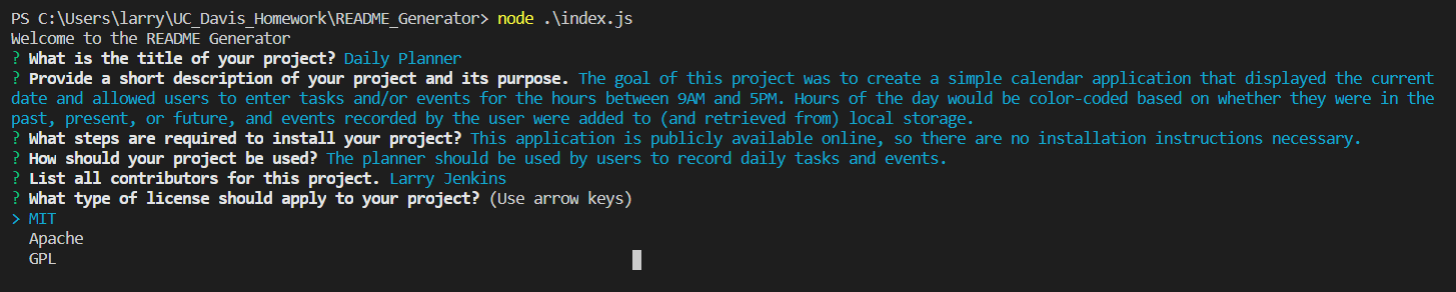
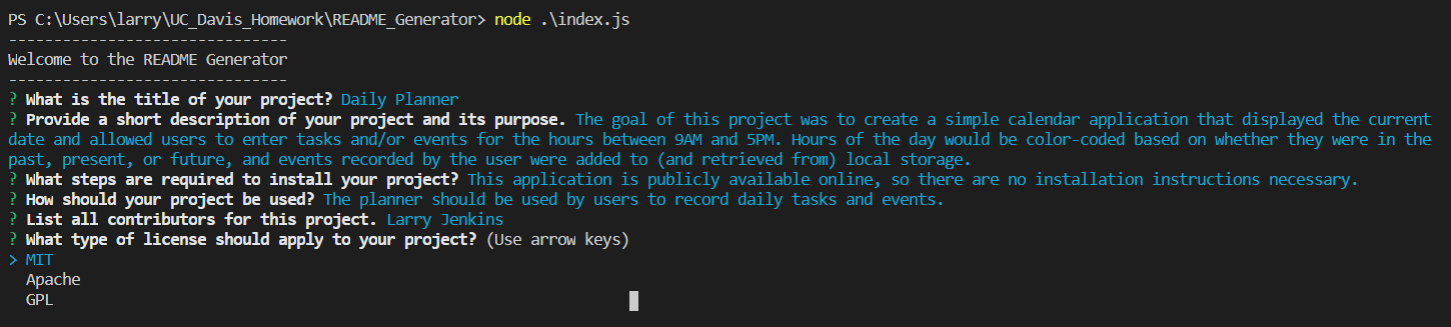
completed Solution section of README

Changed region(s): [[0.0, 0.0308, 0.9924, 0.9247], [0.4342, 0.9247, 0.4652, 0.9555], [0.4342, 0.863, 0.4652, 0.8938]]

diff --git a/index.js b/index.js
@@ -1,7 +1,9 @@
 const fs = require("fs");
 const inquirer = require("inquirer");
 
+console.log(`-------------------------------`);
 console.log(`Welcome to the README Generator`);
+console.log(`-------------------------------`);
 
 // These are the questions the user will answer when setting up their README file.
 

diff --git a/README.md b/README.md
@@ -27,7 +27,7 @@ Most of the prompts use the "input" type, meaning users will enter text response
 
     {title: 'Daily Planner'}
 
-To give users a
+To give users a collection of license choices, a "list" type was used within Inquirer.js. 
 
 **Example of list question for license type**
 
@@ -38,29 +38,38 @@ To give users a
     choices: ["MIT", "Apache", "GPL"],
     }
 
-Text areas were used to capture events and/or tasks for each given time block. Each text area has an associated save button, and when a user selects the button, any text they entered is saved to local storage.  
+After the user responded to each prompt, the data entered was stored in a JavaScript object denoted as "answers". Since a portion of the acceptance criteria included displaying a badge that corresponded to the type of license chosen by the user, an if statement was used to create a new key/value pair, known as "badgeURL", within the "answers" object. This allowed that data to be referenced within the .md file created by the application.     
 
-**Example of event listener used to save data to local storage**
+**If statement used to create a new key/value pair within the answers object for badgeURL**
 
-    $(".saveBtn").on("click", function(){
-    event.preventDefault();
-    
-    var taskDescriptionNine = document.getElementById("9Task");
+    if (answers.license == "MIT") {
+            answers.badgeURL = "[![License: MIT](https://img.shields.io/badge/License-MIT-yellow.svg)](https://opensource.org/licenses/MIT)";
+        }
+        else if (answers.license == "Apache") {
+            answers.badgeURL = "[![License](https://img.shields.io/badge/License-Apache%202.0-blue.svg)](https://opensource.org/licenses/Apache-2.0)";
 
-    localStorage.setItem("9AM", taskDescriptionNine.value);
-    })
+        } else {
+            answers.badgeURL = "[![License: GPL v3](https://img.shields.io/badge/License-GPLv3-blue.svg)](https://www.gnu.org/licenses/gpl-3.0)";
+        }
 
-This stored information is retrieved and displayed when a user refreshes (or returns to) the application.
+The answers were then passed to the function that generated the markup used within the new README file.
 
-**Example of variable and function used to retrieve data from local storage**
+**Passing answers object to generateReadMe function and calling function for writing new file with the README content**
 
-    var nineAmTask = localStorage.getItem("9AM");
+    const readMeContent = generateReadMe(answers);
 
-    function showTasks() {
-    $("#9Task").text(nineAmTask);
-    }
+        fs.writeFile("newREADME.md", readMeContent, (err) => 
+            err ? console.error(err) : console.log(`The file was created.`)
+        );
 
-    showTasks();
+**Example of template literal used to generate README file content**
+    const generateReadMe = (answers) =>
+
+    `# ${answers.title}
+    ${answers.badgeURL}
+
+    ## Description
+    ${answers.description}
 
 ## Technologies Used
 1. JavaScript
@@ -83,4 +92,4 @@ Use the following link to view a video demonstration of the application: [README
 ## Example Image
 Following is an image of the application:
 
-![README Generator Application](./assets/images/DailyPlannerScreenshot.PNG)
+![README Generator Application](./assets/images/README_Generator_Screenshot.PNG)
